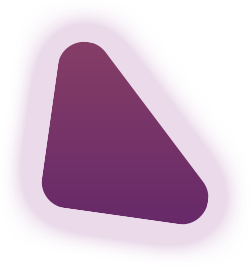
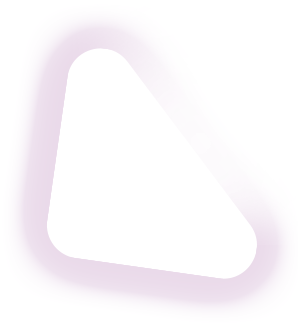
Desktop colors - #fff

diff --git a/public/css/app.css b/public/css/app.css
@@ -9,7 +9,7 @@
 .pb5{padding-bottom:5px;}.pb10{padding-bottom:10px;}.pb15{padding-bottom:15px;}.pb20{padding-bottom:20px;}.pb25{padding-bottom:25px;}.pb30{padding-bottom:30px;}.pb35{padding-bottom:35px;}.pb40{padding-bottom:40px;}.pb45{padding-bottom:45px;}.pb50{padding-bottom:50px;}.pb100{padding-bottom:100px;}
 .space5{height:5px;}.space10{height:10px;}.space15{height:15px;}.space20{height:20px;}.space25{height:25px;}.space30{height:30px;}.space35{height:35px;}.space40{height:40px;}.space45{height:45px;}.space50{height:50px;}.space55{height:55px;}.space60{height:60px;}.space65{height:65px;}.space70{height:70px;}.space75{height:75px;}.space80{height:80px;}.space85{height:85px;}.space90{height:90px;}.space95{height:95px;}.space100{height:100px;}.space125{height:125px;}.space150{height:150px;}.space175{height:175px;}.space200{height:200px;}.tac{text-align:center;}.tal{text-align:left;}.tar{text-align:right;}.p0{padding:0 !important;}.m0{margin:0 !important;}
 
-.content_target, .content_target p, .content_target li, .content_target div, .content_target span, .content_target dd, .content_target dt, .content_target td, .content_target a {font: 16px RobotoL, Tahoma; color: #fff;}
+.content_target, .content_target p, .content_target li, .content_target div, .content_target span, .content_target dd, .content_target dt, .content_target td, .content_target a {font: 16px RobotoL, Tahoma; color: #575656;}
 .content_target p, .content_target li, .content_target div {margin-bottom: 15px;}
 .content_target {overflow: hidden;}
 .content_target img {width: auto; height: auto; max-width: 100%;}
@@ -60,32 +60,33 @@
 .usn {user-select: none; --webkit-user-select: none; -moz-user-select: none; -o-user-select: none; -ms-user-select: none;}
 
 #preloader {position: fixed; left: 0; top: 0; right: 0; bottom: 0; z-index: 99999; background: #282828;}
-#preloader img {left: 50%; top: 50%; margin-top: -52px; margin-left: -150px; width: 300px; height: auto; position: fixed; -webkit-mask-image: linear-gradient(-75deg, rgba(0,0,0,.6) 30%, #000 50%, rgba(0,0,0,.6) 70%); -webkit-mask-size: 200%; animation: shine 2s infinite;}
+#preloader img {left: 50%; top: 50%; margin-top: -52px; margin-left: -150px; width: 300px; height: auto; position: fixed; -webkit-mask-image: linear-gradient(-75deg, rgba(255,255,255,.8) 30%, #000 50%, rgba(255,255,255,.8) 70%); -webkit-mask-size: 200%; animation: shine 2s infinite;}
 
-.shine {-webkit-mask-image: linear-gradient(-75deg, rgba(0,0,0,.6) 30%, #000 50%, rgba(0,0,0,.6) 70%); -webkit-mask-size: 200%; animation: shine 5s infinite;}
+.shine {-webkit-mask-image: linear-gradient(-75deg, rgba(255,255,255,.8) 30%, #000 50%, rgba(255,255,255,.8) 70%); -webkit-mask-size: 200%; animation: shine 5s infinite;}
 
 .waves-effect.waves-nav .waves-ripple {background-color: rgba(150, 70, 149, 0.5);}
 
 
-body {position: relative; background: #282828;}
+body {position: relative; background: #fff;}
 .home_slider_sect {width: 100%; height: 100%; position: absolute; right: 0; top: 0; z-index: 200;}
 .home_slider_holder {position: absolute; right: 0; top: 0; z-index: 100; width: 75%; height: 100%; }
 .home_slider .item .image {background-size: cover; -webkit-background-size: cover; -moz-background-size: cover; -o-background-size: cover; -ms-background-size: cover; width: 100%; height: 95vh; background-repeat: no-repeat; background-position: right center;}
 
-header {width: 100%; height: 115px; background: transparent; position: fixed; left: 0; top: 0; z-index: 300; transition-duration: 1s;}
+header {width: 100%; height: 115px; background: transparent; position: fixed; left: 0; top: 0; z-index: 300; transition-duration: 0.5s;}
 header .logo img {max-width: 215px; margin-top: 25px;}
-header.filled {background: #282828;}
+header.filled {background: #fff;}
+header.filled li a {color: #575656;}
 
 
 .top_nav li {display: inline-block; padding: 0; border-bottom: 6px solid transparent; transition-duration: 0.3s}
 .top_nav li a {font: 16px 'RobotoM', 'Tahoma'; color: #fff; letter-spacing: 1px;  padding: 44px 16px;}
 .top_nav li.active {border-color: #964695;}
 .top_nav li:hover {
-	-webkit-mask-image: linear-gradient(-75deg, rgba(0,0,0,.6) 30%, #000 50%, rgba(0,0,0,.6) 70%); -webkit-mask-size: 200%; animation: shine 2s infinite;
+	-webkit-mask-image: linear-gradient(-75deg, rgba(255,255,255,.8) 30%, #000 50%, rgba(255,255,255,.8) 70%); -webkit-mask-size: 200%; animation: shine 2s infinite;
 }
 .top_nav li:not(.recall_btn):active {border-color: #964695;}
 
-.logo:hover img {-webkit-mask-image: linear-gradient(-75deg, rgba(0,0,0,.6) 40%, #000 50%, rgba(0,0,0,.6) 70%); -webkit-mask-size: 200%; animation: shine 3s infinite;}
+.logo:hover img {-webkit-mask-image: linear-gradient(-75deg, rgba(255,255,255,.8) 40%, #000 50%, rgba(255,255,255,.8) 70%); -webkit-mask-size: 200%; animation: shine 3s infinite;}
 .main_wrapper  {overflow: hidden;}
 
 @-webkit-keyframes shine {
@@ -107,7 +108,7 @@ header .recall_btn {margin-bottom: -16px; margin-left: 15px;}
 header .recall_btn a {padding: 0; border-bottom: 0; height: 33px; display: block;}
 header .recall_btn img {width: 21px; height: 33px; float: left;}
 
-h3 {color: #fff;}
+h3 {color: #575656;}
 
 .start_lines {position: absolute; left: 0; top: 30%; right: 20%; bottom: 0; background: url('../img/bg_lines.png') left bottom no-repeat; z-index: 210; background-size: contain; -webkit-background-size: contain; -moz-background-size: contain; -o-background-size: contain; -ms-background-size: contain;}
 .about_start_lines {position: absolute; left: 0; top: 12%; right: 20%; bottom: 0; background: url('../img/bg_lines2.png') left bottom no-repeat; z-index: 210; background-size: contain; -webkit-background-size: contain; -moz-background-size: contain; -o-background-size: contain; -ms-background-size: contain;}
@@ -118,22 +119,22 @@ h3 {color: #fff;}
 
 
 .section_name {position: relative; z-index: 300;}
-.section_name .caption {font: 46px 'RobotoB', 'Tahoma'; color: #fff; line-height: 46px; margin-bottom: 20px; position: relative; z-index: 300;}
-.section_name .sub_caption {font: 18px 'RobotoR', 'Tahoma'; color: #fff; position: relative; z-index: 300;}
+.section_name .caption {font: 46px 'RobotoB', 'Tahoma'; color: #575656; line-height: 46px; margin-bottom: 20px; position: relative; z-index: 300;}
+.section_name .sub_caption {font: 18px 'RobotoR', 'Tahoma'; color: #575656; position: relative; z-index: 300;}
 
 .section_name::before {content: ""; display: block; position: absolute; width: 336px; height: 360px; background: url('../img/bg_figure1.png') center no-repeat; z-index: 280; left: -100px; top: -120px; animation: float 6s ease-in-out infinite;}
 
 .slider_trigger {position: absolute; z-index: 300; top: 0; left: -150px;}
 .slider_trigger li {text-align: center;}
-.slider_trigger .dot {font: 20px 'RobotoBL', 'Tahoma'; color: #fff; cursor: pointer; transition-duration: 0.3s; position: relative;}
+.slider_trigger .dot {font: 20px 'RobotoBL', 'Tahoma'; color: #575656; cursor: pointer; transition-duration: 0.3s; position: relative;}
 .slider_trigger .separator {width: 31px; height: 41px; background: url('../img/dot_separator.png') bottom center no-repeat; display: block;}
 .slider_trigger .dot:last-child::after {background: none;}
-.slider_trigger .dot.active {-webkit-mask-image: linear-gradient(-75deg, rgba(0,0,0,.6) 40%, #000 50%, rgba(0,0,0,.6) 70%); -webkit-mask-size: 200%; animation: shine 2s infinite; color: #964695; transform: scale(2); -webkit-transform: scale(2); -moz-transform: scale(2); -o-transform: scale(2); -ms-transform: scale(2);}
-.slider_trigger .dot:hover {-webkit-mask-image: linear-gradient(-75deg, rgba(0,0,0,.6) 40%, #000 50%, rgba(0,0,0,.6) 70%); -webkit-mask-size: 200%; animation: shine 2s infinite; color: #964695; transform: scale(2); -webkit-transform: scale(2); -moz-transform: scale(2); -o-transform: scale(2); -ms-transform: scale(2);}
-.slider_trigger .dot:not(.active):hover {-webkit-mask-image: linear-gradient(-75deg, rgba(0,0,0,.6) 40%, #000 50%, rgba(0,0,0,.6) 70%); -webkit-mask-size: 200%; animation: shine 2s infinite; color: #964695; transform: scale(1.5); -webkit-transform: scale(1.5); -moz-transform: scale(1.5); -o-transform: scale(1.5); -ms-transform: scale(1.5);}
-.next_home_section {position: absolute; z-index: 300; left: 100px; bottom: -180px; width: 25px; height: 200px; border-right: 1px solid #fff; position: relative; cursor: pointer; display: block;}
+.slider_trigger .dot.active {-webkit-mask-image: linear-gradient(-75deg, rgba(255,255,255,.8) 40%, #000 50%, rgba(255,255,255,.8) 70%); -webkit-mask-size: 200%; animation: shine 2s infinite; color: #964695; transform: scale(2); -webkit-transform: scale(2); -moz-transform: scale(2); -o-transform: scale(2); -ms-transform: scale(2);}
+.slider_trigger .dot:hover {-webkit-mask-image: linear-gradient(-75deg, rgba(255,255,255,.8) 40%, #000 50%, rgba(255,255,255,.8) 70%); -webkit-mask-size: 200%; animation: shine 2s infinite; color: #964695; transform: scale(2); -webkit-transform: scale(2); -moz-transform: scale(2); -o-transform: scale(2); -ms-transform: scale(2);}
+.slider_trigger .dot:not(.active):hover {-webkit-mask-image: linear-gradient(-75deg, rgba(255,255,255,.8) 40%, #000 50%, rgba(255,255,255,.8) 70%); -webkit-mask-size: 200%; animation: shine 2s infinite; color: #964695; transform: scale(1.5); -webkit-transform: scale(1.5); -moz-transform: scale(1.5); -o-transform: scale(1.5); -ms-transform: scale(1.5);}
+.next_home_section {position: absolute; z-index: 300; left: 100px; bottom: -180px; width: 25px; height: 200px; border-right: 1px solid #575656; position: relative; cursor: pointer; display: block;}
 .next_home_section::after {background: url('../img/go_down.png') center bottom no-repeat; cursor: pointer; content: ""; display: block; bottom: 0; left: 14px; z-index: 300; width: 20px; height: 20px; position: absolute; transition-duration: 1s;}
-.next_home_section p {color: #fff; font: 14px 'RobotoL', 'Tahoma'; width: 107px; letter-spacing: 2px; margin-left: -50px; display: block; float: left; margin-top: 60px; transition-duration: 1s;}
+.next_home_section p {color: #575656; font: 14px 'RobotoL', 'Tahoma'; width: 107px; letter-spacing: 2px; margin-left: -50px; display: block; float: left; margin-top: 60px; transition-duration: 1s;}
 .next_home_section:hover p {/*transform: scale(1.3) translate(-40px,0px); -webkit-transform: scale(1.3) translate(-40px,0px); -moz-transform: scale(1.3) translate(-40px,0px); -o-transform: scale(1.3) translate(-40px,0px); -ms-transform: scale(1.3) translate(-40px,0px);*/ }
 .next_home_section:hover::after {transform: translate(0px, 10px); -webkit-transform: translate(0px, 10px); -moz-transform: translate(0px, 10px); -o-transform: translate(0px, 10px); -ms-transform: translate(0px, 10px);}
 
@@ -172,21 +173,21 @@ h3 {color: #fff;}
 .home_about .section_name {position: absolute; top: 100px;}
 .home_about .section_name .caption {margin-bottom: 0;}
 .home_about .section_name .sub_caption {margin-bottom: 10px;}
-.home_about .section_name::before {content: ""; display: block; position: absolute; width: 336px; height: 360px; background: url('../img/bg_figure2.png') center no-repeat; z-index: 280; left: -100px; top: -80px; animation: float 6s ease-in-out infinite;}
-.home_about .next_home_section {position: absolute; z-index: 300; left: 0px; bottom: -160px; width: 25px; height: 200px; border-right: 1px solid #fff; position: relative; cursor: pointer; display: block;}
+.home_about .section_name::before {content: ""; display: block; position: absolute; width: 336px; height: 360px; background: url('../img/bg_figure1.png') center no-repeat; z-index: 280; left: -100px; top: -80px; animation: float 6s ease-in-out infinite;}
+.home_about .next_home_section {position: absolute; z-index: 300; left: 0px; bottom: -160px; width: 25px; height: 200px; border-right: 1px solid #575656; position: relative; cursor: pointer; display: block;}
 .home_about .next_home_section::after {background: url('../img/go_down.png') center bottom no-repeat; cursor: pointer; content: ""; display: block; bottom: 0; left: 14px; z-index: 300; width: 20px; height: 20px; position: absolute; transition-duration: 1s;}
 .home_about .next_home_section p {width: 170px; margin-left: -77px;}
 
-.about_inner {max-width: 700px; width: 100%; color: #fff; position: relative; z-index: 300; padding-top: 150px;}
+.about_inner {max-width: 700px; width: 100%; color: #575656; position: relative; z-index: 300; padding-top: 150px;}
 
 .about_slider_trigger {margin-bottom: 40px;}
 .about_slider_trigger li {display: inline-block;}
-.about_slider_trigger .dot {font: 20px 'RobotoBL', 'Tahoma'; color: #fff; cursor: pointer; transition-duration: 0.3s; position: relative;}
+.about_slider_trigger .dot {font: 20px 'RobotoBL', 'Tahoma'; color: #575656; cursor: pointer; transition-duration: 0.3s; position: relative;}
 .about_slider_trigger .separator {width: 31px; height: 41px; background: url('../img/dot_separator.png') center no-repeat; margin-bottom: -13px;}
 .about_slider_trigger .dot:last-child::after {background::; none;}
-.about_slider_trigger .dot.active {-webkit-mask-image: linear-gradient(-75deg, rgba(0,0,0,.6) 40%, #000 50%, rgba(0,0,0,.6) 70%); -webkit-mask-size: 200%; animation: shine 2s infinite; color: #964695; transform: scale(2); -webkit-transform: scale(2); -moz-transform: scale(2); -o-transform: scale(2); -ms-transform: scale(2);}
-.about_slider_trigger .dot:not(.active):hover {-webkit-mask-image: linear-gradient(-75deg, rgba(0,0,0,.6) 40%, #000 50%, rgba(0,0,0,.6) 70%); -webkit-mask-size: 200%; animation: shine 2s infinite; color: #964695; transform: scale(1.5); -webkit-transform: scale(1.5); -moz-transform: scale(1.5); -o-transform: scale(1.5); -ms-transform: scale(1.5);}
-.about_slider_trigger .dot:hover {-webkit-mask-image: linear-gradient(-75deg, rgba(0,0,0,.6) 40%, #000 50%, rgba(0,0,0,.6) 70%); -webkit-mask-size: 200%; animation: shine 2s infinite; color: #964695; transform: scale(2); -webkit-transform: scale(2); -moz-transform: scale(2); -o-transform: scale(2); -ms-transform: scale(2);}
+.about_slider_trigger .dot.active {-webkit-mask-image: linear-gradient(-75deg, rgba(255,255,255,.8) 40%, #000 50%, rgba(255,255,255,.8) 70%); -webkit-mask-size: 200%; animation: shine 2s infinite; color: #964695; transform: scale(2); -webkit-transform: scale(2); -moz-transform: scale(2); -o-transform: scale(2); -ms-transform: scale(2);}
+.about_slider_trigger .dot:not(.active):hover {-webkit-mask-image: linear-gradient(-75deg, rgba(255,255,255,.8) 40%, #000 50%, rgba(255,255,255,.8) 70%); -webkit-mask-size: 200%; animation: shine 2s infinite; color: #964695; transform: scale(1.5); -webkit-transform: scale(1.5); -moz-transform: scale(1.5); -o-transform: scale(1.5); -ms-transform: scale(1.5);}
+.about_slider_trigger .dot:hover {-webkit-mask-image: linear-gradient(-75deg, rgba(255,255,255,.8) 40%, #000 50%, rgba(255,255,255,.8) 70%); -webkit-mask-size: 200%; animation: shine 2s infinite; color: #964695; transform: scale(2); -webkit-transform: scale(2); -moz-transform: scale(2); -o-transform: scale(2); -ms-transform: scale(2);}
 
 .home_slider_holder2 {height: 100%;}
 .home_slider_holder2 .home_slider2 {height: 100%;}
@@ -274,18 +275,18 @@ h3 {color: #fff;}
 	.home_slider_holder2, .home_slider_sect2 {height: 40%; max-height: 40vh;}
 	
 
-	#preloader img {left: 50%; top: 50%; margin-top: -52px; margin-left: -125px; width: 250px; height: auto; position: fixed; -webkit-mask-image: linear-gradient(-75deg, rgba(0,0,0,.6) 30%, #000 50%, rgba(0,0,0,.6) 70%); -webkit-mask-size: 200%; animation: shine 2s infinite;}
+	#preloader img {left: 50%; top: 50%; margin-top: -52px; margin-left: -125px; width: 250px; height: auto; position: fixed; -webkit-mask-image: linear-gradient(-75deg, rgba(255,255,255,.8) 30%, #000 50%, rgba(255,255,255,.8) 70%); -webkit-mask-size: 200%; animation: shine 2s infinite;}
 }
 
-.home_services {background: url('../img/services_bg.jpg') right top no-repeat; background-size: cover; -webkit-background-size: cover; -moz-background-size: cover; -o-background-size: cover; -ms-background-size: cover;}
+.home_services {background: #fff url('../img/services_bg.jpg') right top no-repeat;}
 
 .home_services .section_name {position: absolute; top: 280px; left: 270px;}
-.services_inner {max-width: 1100px; width: 100%; color: #fff; position: relative; z-index: 300; padding-top: 130px;}
+.services_inner {max-width: 1100px; width: 100%; color: #575656; position: relative; z-index: 300; padding-top: 130px;}
 
 .serv_ico {width: 54px; height: 54px; background-size: contain; -webkit-background-size: contain; -moz-background-size: contain; -o-background-size: contain; -ms-background-size: contain; margin-bottom: 10px; background-repeat: no-repeat;}
 
-.services_col_header {font: 22px 'RobotoB', Tahoma; color: #fff; margin-bottom: 15px; letter-spacing: 1px;}
-.service_description {font: 16px 'RobotoL', Tahoma; color: #fff; letter-spacing: 1px;}
+.services_col_header {font: 22px 'RobotoB', Tahoma; color: #575656; margin-bottom: 15px; letter-spacing: 1px;}
+.service_description {font: 16px 'RobotoL', Tahoma; color: #575656; letter-spacing: 1px;}
 
 .services_inner .service_row {margin-bottom: 40px;}
 .home_services .next_home_section p {width: 150px; margin-left: -68px;}
@@ -338,15 +339,15 @@ h3 {color: #fff;}
 	.home_services .section_name {margin-top: 80px; padding-top: 75px;}
 }
 
-.home_projects {background: url('../img/projects_bg.jpg') right top no-repeat; background-size: cover; -webkit-background-size: cover; -moz-background-size: cover; -o-background-size: cover; -ms-background-size: cover;}
+.home_projects {background: #fff;}
 
 
 .section_name_small {position: relative; z-index: 300;}
-.section_name_small .caption {font: 36px 'RobotoB', 'Tahoma'; color: #fff; line-height: 46px; margin-bottom: 20px; position: relative; z-index: 300; margin-left: 20px;}
+.section_name_small .caption {font: 36px 'RobotoB', 'Tahoma'; color: #575656; line-height: 46px; margin-bottom: 20px; position: relative; z-index: 300; margin-left: 20px;}
 
 .section_name_small::before {content: ""; display: block; position: absolute; width: 336px; height: 360px; background: url('../img/bg_figure3.png') center no-repeat; z-index: 280; left: -100px; top: -120px; animation: float 6s ease-in-out infinite;}
 
-.home_projects .details {font: 16px "RobotoL", Tahoma; color: #fff; letter-spacing: 1px; line-height: 22px;}
+.home_projects .details {font: 16px "RobotoL", Tahoma; color: #575656; letter-spacing: 1px; line-height: 22px;}
 
 .projects_title {margin-top: 150px;}
 .projects_wrapper {padding-top: 60px;}
@@ -404,7 +405,7 @@ h3 {color: #fff;}
 }
 
 
-footer {height: 185px; background: #161616;}
+footer {height: 185px; background: #575656;}
 #home_footer {padding: 0; height: 185px;}
 footer img {max-width: 211px !important; width: 100%; height: auto; max-height: 65px; margin-top: 63px;}
 footer .container {width: 90%;}
@@ -412,13 +413,13 @@ footer .container {width: 90%;}
 .footer_nav_wrapper {text-align: right; padding-top: 50px !important;}
 .footer_nav li a {color: #fff; font: 14px 'RobotoL', Tahoma;}
 .footer_nav li {margin-left: 30px; display: inline-block;}
-.footer_nav li:hover a {-webkit-mask-image: linear-gradient(-75deg, rgba(0,0,0,.6) 30%, #000 50%, rgba(0,0,0,.6) 70%); -webkit-mask-size: 200%; animation: shine 2s infinite;}
+.footer_nav li:hover a {-webkit-mask-image: linear-gradient(-75deg, rgba(255,255,255,.8) 30%, #000 50%, rgba(255,255,255,.8) 70%); -webkit-mask-size: 200%; animation: shine 2s infinite;}
 .footer_nav li.active a {text-decoration: underline;}
 
 .copyright {font: 11px 'RobotoL', Tahoma; color: #8b8b8b; display: block !important; width: 100%; text-align: left; padding-top: 13px;}
 .dev {display: block !important; width: 100%; text-align: left; padding-top: 13px;}
 .dev a {font: 11px 'RobotoL', Tahoma !important; color: #8b8b8b !important;}
-.dev a:hover {-webkit-mask-image: linear-gradient(-75deg, rgba(0,0,0,.6) 30%, #000 50%, rgba(0,0,0,.6) 70%); -webkit-mask-size: 200%; animation: shine 2s infinite;}
+.dev a:hover {-webkit-mask-image: linear-gradient(-75deg, rgba(255,255,255,.8) 30%, #000 50%, rgba(255,255,255,.8) 70%); -webkit-mask-size: 200%; animation: shine 2s infinite;}
 
 @media(max-width: 993px){
 	.footer_nav li {margin-left: 16px;}

diff --git a/public/js/app.js b/public/js/app.js
@@ -144,10 +144,10 @@ var app = {
 
 
 				if (index == 1) {
-					$('header').addClass('z-depth-4 filled');
+					$('header').addClass('z-depth-2 filled');
 				}else{
 					if (nextIndex == 1) {
-						$('header').removeClass('z-depth-4 filled');
+						$('header').removeClass('z-depth-2 filled');
 					}
 				}
 

diff --git a/resources/views/pages/home.blade.php b/resources/views/pages/home.blade.php
@@ -178,7 +178,7 @@
 				<div class="row projects_wrapper">
 					@forelse($projects as $project)
 						<div class="col xl4 l4 m12 s12 project_home_item">
-							<div class="card z-depth-5 hoverable">
+							<div class="card z-depth-2 hoverable">
 								<div class="card-image waves-effect">
 									@if($project->preview)
 										<a href="{{ RS.LANG.'projects/'.$project->id.'/' }}"><img src="{{ UPLOAD.'projects/crop/600x308_'.$project->preview }}" alt="Project"></a>

diff --git a/resources/views/elements/header.blade.php b/resources/views/elements/header.blade.php
@@ -3,7 +3,7 @@
 		<div class="row">
 			<div class="col xl4 l4 m3 s3">
 				<a href="{{ PAGE == 'home' ? '#start' : RS.LANG }}" class="logo">
-					<img src="{{ IMG.'logo.svg' }}" alt="Logo" class="responsive-img" />
+					<img src="{{ IMG.'logo_white.svg' }}" alt="Logo" class="responsive-img" />
 				</a>
 			</div>
 

diff --git a/config/app.php b/config/app.php
@@ -78,7 +78,7 @@ return [
     |
     */
 
-    'RS' => '/volterra/',
+    'RS' => '/volt/',
     'multilang' => false,
     'locale' => 'ru',
     'routeLang' => '',
